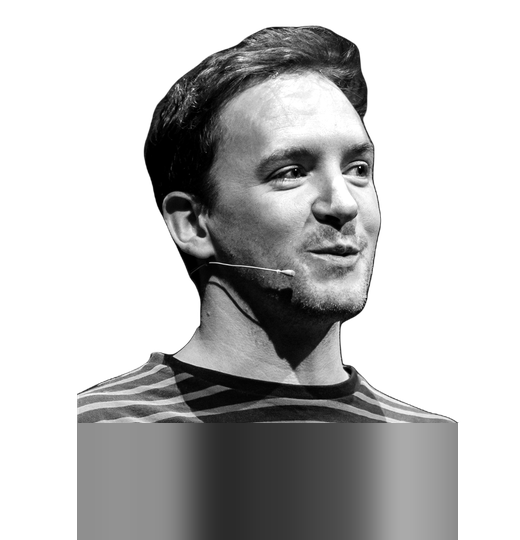
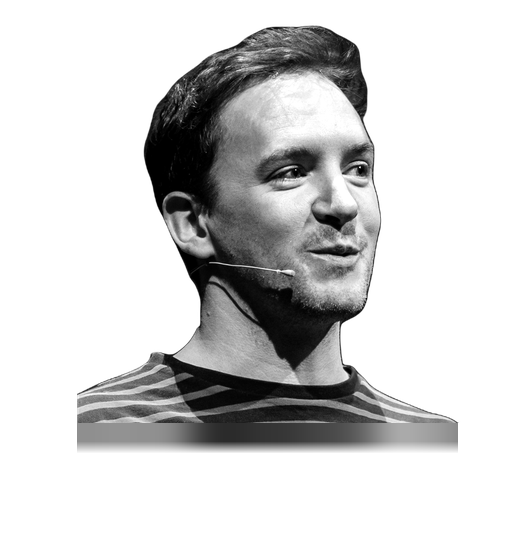
fix: shorter filler under Daniel and Ryan
Their cutouts end where the plate valleys are, so the full-depth fill showed
as a large block. fill_below_body.py takes --max-rows (30 rows, fading out
over the last 12) and cutouts.py records the limit per person.

Changed region(s): [[0.1231, 0.8, 0.8923, 1.0]]

diff --git a/scripts/fill_below_body.py b/scripts/fill_below_body.py
@@ -9,9 +9,16 @@ smoothed sideways so single columns of texture do not stretch into streaks.
 Only tones that are already in the body are used. Image size is unchanged.
 
   python3 scripts/fill_below_body.py src/images/people/*-cutout.png   # in place
+  python3 scripts/fill_below_body.py --max-rows 30 <file>             # shallower fill
+
+--max-rows limits how far the body is extended; the rest stays transparent and
+the last rows fade out, for cutouts where a deep fill shows in the plate's
+valleys (Daniel, Ryan: see FILL_LIMITS in cutouts.py).
 
 Needs only pillow and numpy. cutouts.py runs it on every new cutout.
 """
+from __future__ import annotations
+
 import sys
 
 import numpy as np
@@ -25,9 +32,11 @@ SAFE_MARGIN = 2
 SAMPLE_ROWS = 24
 # sideways smoothing of the fill colour, in pixels (Gaussian sigma)
 SMOOTH_SIGMA = 14
+# with --max-rows, this many of the last filled rows fade to transparent
+FADE_ROWS = 12
 
 
-def fill_below_body(path: str) -> int:
+def fill_below_body(path: str, max_rows: int | None = None) -> int:
     """Fill in place; returns how many rows were filled (0 if already full)."""
     im = Image.open(path).convert("LA")
     px = np.asarray(im).copy()
@@ -59,12 +68,25 @@ def fill_below_body(path: str) -> int:
     )
     column_gray = np.where(body_columns, smooth, 0)
 
-    px[edge + 1 :, :, 0] = np.where(body_columns, column_gray, 0).astype(np.uint8)
-    px[edge + 1 :, :, 1] = np.where(body_columns, 255, 0).astype(np.uint8)
+    filled = height - 1 - edge
+    if max_rows is not None:
+        filled = min(filled, max_rows)
+    rows = slice(edge + 1, edge + 1 + filled)
+    # opacity 1 for most of the fill, then a linear fade over the last rows
+    fade = np.ones(filled, dtype=np.float32)
+    if max_rows is not None:
+        n = min(FADE_ROWS, filled)
+        fade[filled - n :] = np.linspace(1, 0, n, endpoint=False)
+    px[rows, :, 0] = np.where(body_columns, column_gray, 0).astype(np.uint8)
+    px[rows, :, 1] = (np.where(body_columns, 255, 0) * fade[:, None]).astype(np.uint8)
     Image.fromarray(px, "LA").save(path, optimize=True)
-    return height - 1 - bottom
+    return filled
 
 
 if __name__ == "__main__":
-    for file in sys.argv[1:]:
-        print(f"{file}: filled {fill_below_body(file)}px")
+    args = sys.argv[1:]
+    limit = None
+    if args[:1] == ["--max-rows"]:
+        limit, args = int(args[1]), args[2:]
+    for file in args:
+        print(f"{file}: filled {fill_below_body(file, limit)}px")

diff --git a/scripts/cutouts.py b/scripts/cutouts.py
@@ -31,6 +31,9 @@ spec.loader.exec_module(cutout)
 original_mask = cutout.mask
 current = {"name": ""}
 
+# Cutouts where a full-depth fill shows in the plate valleys: fill only this many rows.
+FILL_LIMITS = {"daniel-roe": 30, "ryan-townsend": 30}
+
 
 def polygon_mask(size, head_ellipse, body_polygon):
     """Soft mask (0..1) from a head ellipse (cx, cy, rx, ry) and a body polygon, in image fractions."""
@@ -74,5 +77,5 @@ if __name__ == "__main__":
         out = f"{os.environ['OUT_DIR']}/{name}-cutout.png"
         cutout.process(file, out)
         # no transparent band under the body (see fill_below_body.py)
-        filled = fill_below_body(out)
+        filled = fill_below_body(out, FILL_LIMITS.get(name))
         print("wrote", name, f"(filled {filled}px under the body)")
